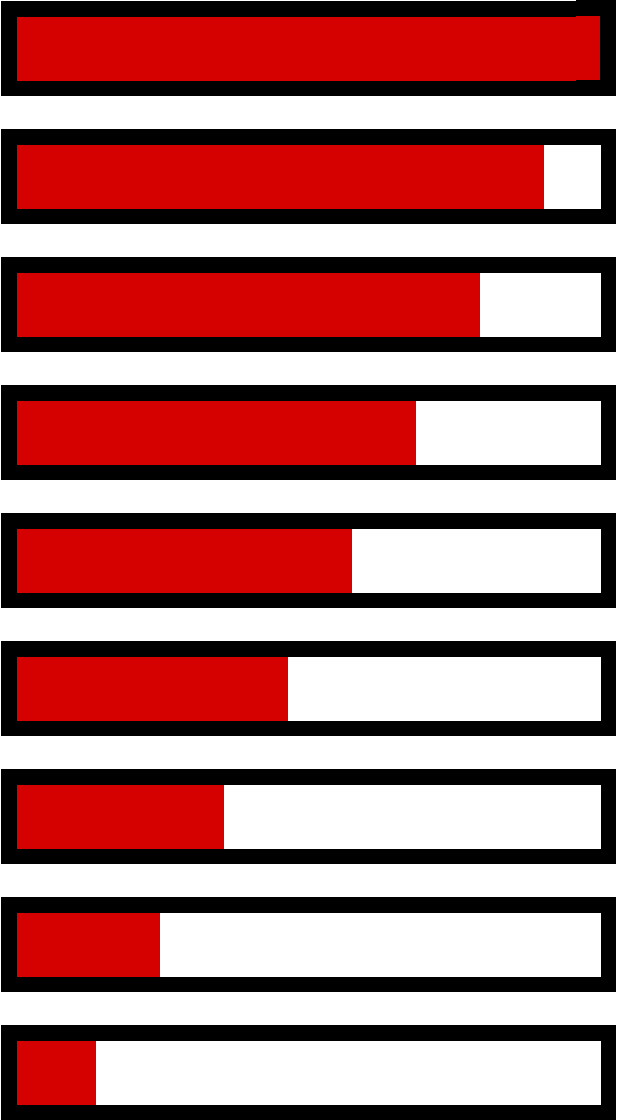
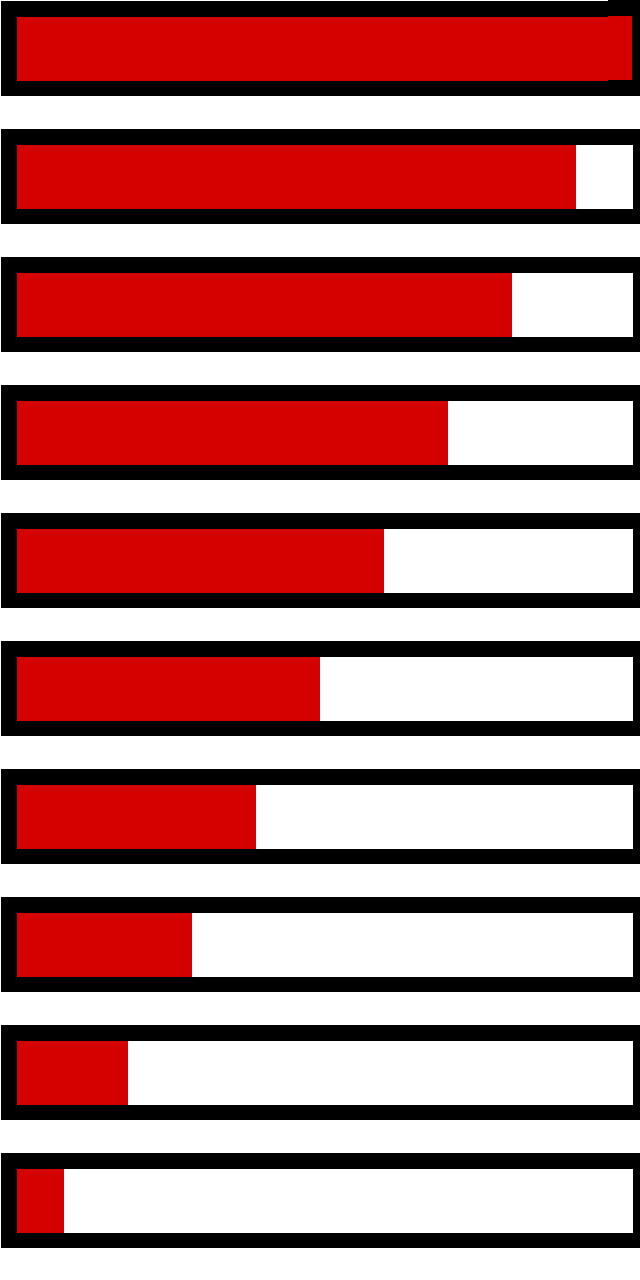
Some changes on health bar

diff --git a/src/objects/HealthBar.js b/src/objects/HealthBar.js
@@ -1,5 +1,5 @@
 import { Scene } from "phaser";
-export default class HealhBar extends Phaser.GameObjects.Sprite{
+export default class HealhtBar extends Phaser.GameObjects.Sprite{
 /** 
 *  @param {Scene} scene - escena en la que aparece
 *  @param {number} x - coordenada x de spawn
@@ -9,7 +9,6 @@ export default class HealhBar extends Phaser.GameObjects.Sprite{
         super(scene,x,y,"healthbar");
         this.scene.add.existing(this);   
         this.setScale(0.12)
-        this.currentHealth = 90;
         this.scene.anims.create({
             key:'90',
             frames: scene.anims.generateFrameNumbers('healthBar',{start:0,end:0}),
@@ -59,16 +58,7 @@ export default class HealhBar extends Phaser.GameObjects.Sprite{
     }
     updateHealth() {
         this.x = this.scene.player.x;
-        this.y = this.scene.player.y - 30;
-        if(this.currentHealth == 9 )this.play('90')
-        else if(this.currentHealth == 8)this.play('80')
-        else if(this.currentHealth == 7)this.play('70')
-        else if(this.currentHealth == 6)this.play('60')
-        else if(this.currentHealth == 5)this.play('50')
-        else if(this.currentHealth == 4)this.play('40')
-        else if(this.currentHealth == 3)this.play('30')
-        else if(this.currentHealth == 2)this.play('20')
-        else if(this.currentHealth == 1)this.play('10')
+         this.y = this.scene.player.y - 35;
+        this.play(String(this.scene.player.vida))
     }
-
 }

diff --git a/src/scenes/Level1Scene.js b/src/scenes/Level1Scene.js
@@ -21,7 +21,7 @@ export default class Level1Scene extends Phaser.Scene{
     create(){
         let bg = this.add.image(0,0,'fondo').setOrigin(0,0);
         this.player = new Player(this,this.scene.systems.game.scale.gameSize.width/2,this.scene.systems.game.scale.gameSize.height/2)
-        this.healthBar = new HealthBar(this,this.player.x,this.player.y -25) 
+        this.healthBar = new HealthBar(this,this.player.x,this.player.y -35) 
         this.fireballGroup = new FireballGroup(this);
         this.goblin = new Goblin(this, 50, 500,'goblin')
         this.potion = new Potion(this, 800, 600);
@@ -45,9 +45,7 @@ export default class Level1Scene extends Phaser.Scene{
     }
 
     attack(player,goblin){
-        console.log(player.vida)
-        player.vida=player.vida-goblin.damage;
-        this.healthBar.currentHealth = player.vida
+        player.vida-=goblin.damage;
     }
     hitGoblin(fireball, goblin) {
         fireball.destroy();
@@ -82,13 +80,8 @@ export default class Level1Scene extends Phaser.Scene{
             this.goblin.body.velocity.y=0;
         }
 	}
-    
-
 	update(){
-        this.healthBar.updateHealth();
-        if(this.goblin.vida > 0)
-		    this.enemyFollows();
-        else
-            this.goblin.destroy()
+        this.goblin.vida ? this.enemyFollows() : this.goblin.destroy();
+        this.healthBar.updateHealth() 
 	}
 }
